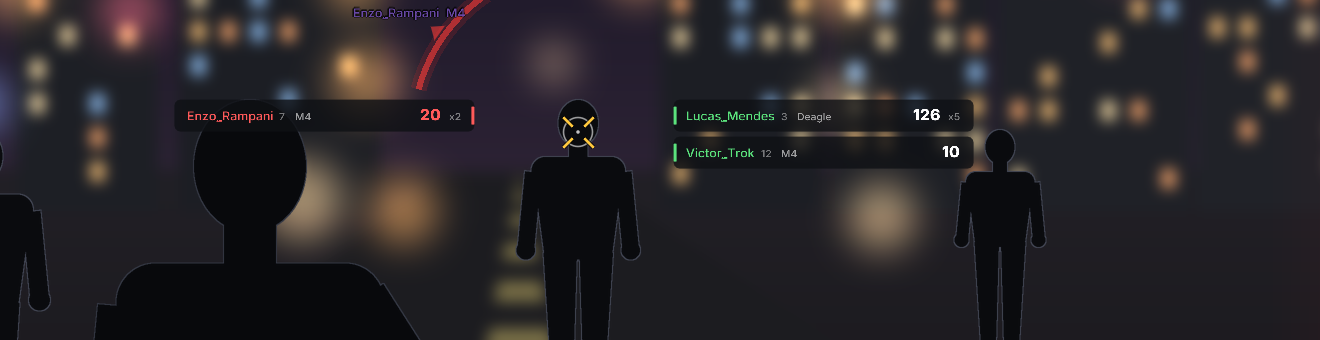
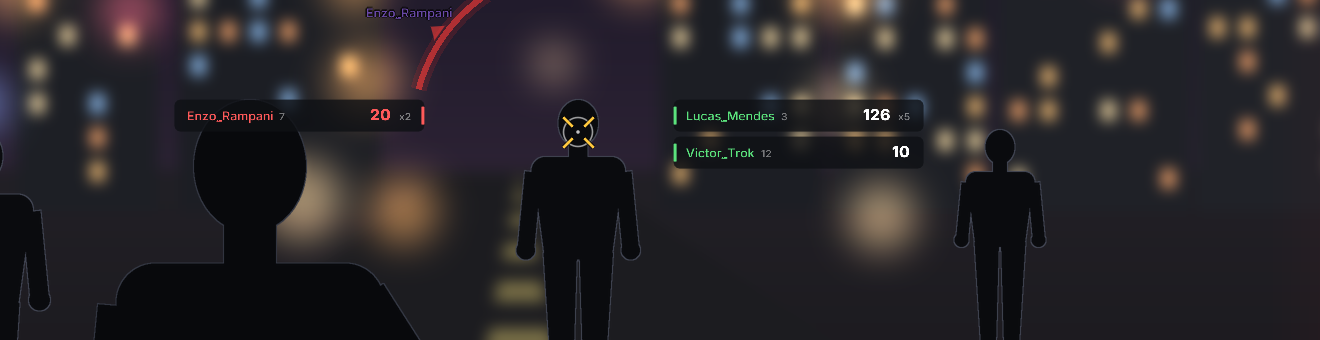
Trok Hitmarker concept: no weapon name
Drop the weapon name from the informer (classic and list), from the
incoming-shot label and from the menu. The list cards get narrower.

Claude-Session: https://claude.ai/code/session_01PybPBz7ZnmDEjHWo6B5FJ6

diff --git a/trok-hit/src/hud.cpp b/trok-hit/src/hud.cpp
@@ -98,11 +98,6 @@ void InformerClassic(ImDrawList* dl, const Line& l, ImVec2 at, bool given, const
     float nickSize = 17 * s;
     ImVec2 np(at.x, at.y + 0.02f * 1080 * k);
     Outlined(dl, g_text, nickSize, np, Alpha(nickColor, fade), nick, 1.3f * s);
-    if (o.weapon && !l.weapon.empty()) {
-        ImVec2 ns = Size(g_text, nickSize, nick);
-        Outlined(dl, g_text, 14 * s, ImVec2(np.x + ns.x + 8 * s, np.y + 2 * s), Alpha(IM_COL32(205, 205, 205, 255), fade),
-                 l.weapon.c_str(), 1.1f * s);
-    }
     float numSize = 26 * s;
     ImFont* nf = NumberFont(o);
     for (size_t i = 0; i < l.recent.size(); ++i) {
@@ -136,7 +131,7 @@ void InformerList(ImDrawList* dl, const std::vector<Line>& lines, ImVec2 at, boo
                   float k) {
     float s = k * o.informerSize / 100.0f;
     float y = at.y;
-    float h = 32 * s, w = 300 * s;
+    float h = 32 * s, w = 250 * s;
     for (const Line& l : lines) {
         float fade = l.age < 3.0f ? 1.0f : 1.0f - (l.age - 3.0f) / 0.4f;
         if (fade <= 0) {
@@ -155,11 +150,6 @@ void InformerList(ImDrawList* dl, const std::vector<Line>& lines, ImVec2 at, boo
         char id[8];
         snprintf(id, sizeof(id), "%d", l.id);
         dl->AddText(g_text, 12.5f * s, ImVec2(tx, ty + 2 * s), Alpha(IM_COL32(255, 255, 255, 110), fade), id);
-        tx += Size(g_text, 12.5f * s, id).x + 10 * s;
-        if (o.weapon) {
-            dl->AddText(g_text, 12.5f * s, ImVec2(tx, ty + 2 * s), Alpha(IM_COL32(255, 255, 255, 150), fade),
-                        l.weapon.c_str());
-        }
         char total[32];
         if (l.afk) {
             snprintf(total, sizeof(total), "AFK");
@@ -308,8 +298,7 @@ void Draw(ImDrawList* dl, const State& st, const opt::Options& o, ImVec2 screen)
                                   ImVec2(c.x + dir.x * (r + 5 * k) - side.x * 9 * k, c.y + dir.y * (r + 5 * k) - side.y * 9 * k),
                                   Alpha(IM_COL32(255, 60, 56, 255), 0.9f * a));
             if (o.directionName && !in.nick.empty()) {
-                char label[64];
-                snprintf(label, sizeof(label), "%s  %s", in.nick.c_str(), in.weapon.c_str());
+                const char* label = in.nick.c_str();
                 ImVec2 ts = Size(g_text, 15 * k, label);
                 ImVec2 lp(c.x + dir.x * (r + 42 * k) - ts.x * 0.5f, c.y + dir.y * (r + 40 * k) - ts.y * 0.5f);
                 Outlined(dl, g_text, 15 * k, lp, Alpha(Opaque(in.nickColor), a), label, 1.3f * k);
@@ -336,7 +325,7 @@ void Draw(ImDrawList* dl, const State& st, const opt::Options& o, ImVec2 screen)
         }
     } else if (o.informer == 1) {
         InformerList(dl, st.given, gAt, true, o, k);
-        InformerList(dl, st.taken, ImVec2(tAt.x + 300 * k * o.informerSize / 100.0f, tAt.y), false, o, k);
+        InformerList(dl, st.taken, ImVec2(tAt.x + 250 * k * o.informerSize / 100.0f, tAt.y), false, o, k);
     }
 
     // local do acerto: a marca fica na parte do corpo que o tiro pegou (o samp.cpp atualiza a posicao do osso)

diff --git a/trok-hit/test/concept.cpp b/trok-hit/test/concept.cpp
@@ -133,7 +133,6 @@ static hud::Line LucasLine() {
     l.nick = "Lucas_Mendes";
     l.id = 3;
     l.nickColor = LUCAS;
-    l.weapon = "Deagle";
     l.hits = 5;
     l.total = 126;
     l.age = 0.2f;
@@ -146,7 +145,6 @@ static hud::Line EnzoLine() {
     l.nick = "Enzo_Rampani";
     l.id = 7;
     l.nickColor = ENZO;
-    l.weapon = "M4";
     l.hits = 2;
     l.total = 20;
     l.age = 0.3f;
@@ -182,7 +180,6 @@ static hud::State Fight() {
     in.age = 0.3f;
     in.damage = 10;
     in.nick = "Enzo_Rampani";
-    in.weapon = "M4";
     in.nickColor = ENZO;
     s.incoming.push_back(in);
     s.flash = 0.35f;
@@ -374,7 +371,7 @@ int main(int argc, char** argv) {
     o.given = {0.58f, 0.37f}, o.taken = {0.32f, 0.37f};
     hud::State s = Fight();
     hud::Line other;
-    other.nick = "Victor_Trok", other.id = 12, other.nickColor = IM_COL32(79, 140, 255, 255), other.weapon = "M4";
+    other.nick = "Victor_Trok", other.id = 12, other.nickColor = IM_COL32(79, 140, 255, 255);
     other.hits = 1, other.total = 10, other.age = 1.4f;
     s.given.push_back(other);
     Frame(s, true, 1.0f);
@@ -405,9 +402,9 @@ int main(int argc, char** argv) {
     s = hud::State();
     s.crosshair = CROSS;
     hud::Incoming in;
-    in.angle = -0.95f, in.age = 0.2f, in.damage = 46, in.nick = "Enzo_Rampani", in.weapon = "Deagle", in.nickColor = ENZO;
+    in.angle = -0.95f, in.age = 0.2f, in.damage = 46, in.nick = "Enzo_Rampani", in.nickColor = ENZO;
     s.incoming.push_back(in);
-    in.angle = 2.5f, in.age = 0.7f, in.damage = 10, in.nick = "Lucas_Mendes", in.weapon = "M4", in.nickColor = LUCAS;
+    in.angle = 2.5f, in.age = 0.7f, in.damage = 10, in.nick = "Lucas_Mendes", in.nickColor = LUCAS;
     s.incoming.push_back(in);
     s.flash = 0.8f;
     s.taken = {EnzoLine()};

diff --git a/trok-hit/src/hud.h b/trok-hit/src/hud.h
@@ -45,7 +45,6 @@ struct Line {       // uma pessoa no informer (dado ou levado)
     std::string nick;
     int id = 0;
     ImU32 nickColor = 0xFFFFFFFF; // a cor do jogador no SA-MP
-    std::string weapon;
     bool afk = false;
     int hits = 0, total = 0;      // combo: acertos e dano somado
     float age = 0;                // desde o ultimo acerto
@@ -56,7 +55,7 @@ struct Incoming {   // tiro levado: de onde veio
     float angle = 0; // rad: 0 = na frente, + = para a direita (sentido horario na tela)
     float age = 0;
     int damage = 0;
-    std::string nick, weapon;
+    std::string nick;
     ImU32 nickColor = 0xFFFFFFFF;
 };
 

diff --git a/trok-hit/src/menu.cpp b/trok-hit/src/menu.cpp
@@ -127,7 +127,6 @@ void TabInformer(Rows& r) {
     r.Color("Cor fixa ao dar dano", &o.cGiven, d.cGiven);
     r.Segmented("Cor do nick ao levar dano", &o.nickTaken, nick, 2, d.nickTaken);
     r.Color("Cor fixa ao levar dano", &o.cTaken, d.cTaken);
-    r.Toggle("Nome da arma", &o.weapon);
     r.Toggle("AFK no lugar do dano", &o.afk);
     r.Toggle("Combo (acertos e dano somado)", &o.combo);
     r.Slider("Combo fecha depois de", &o.comboWindow, 1, 10, 1, "%d s", d.comboWindow);

diff --git a/trok-hit/src/options.h b/trok-hit/src/options.h
@@ -38,7 +38,6 @@ struct Options {
     int informer = 0;        // 0 Classico, 1 Lista, 2 desligado
     int nickGiven = 0;       // 0 cor do jogador, 1 cor fixa
     int nickTaken = 0;
-    bool weapon = true;      // nome da arma ao lado do nick
     bool afk = true;         // "AFK" no lugar do dano de quem esta pausado
     int informerSize = 100;
 
